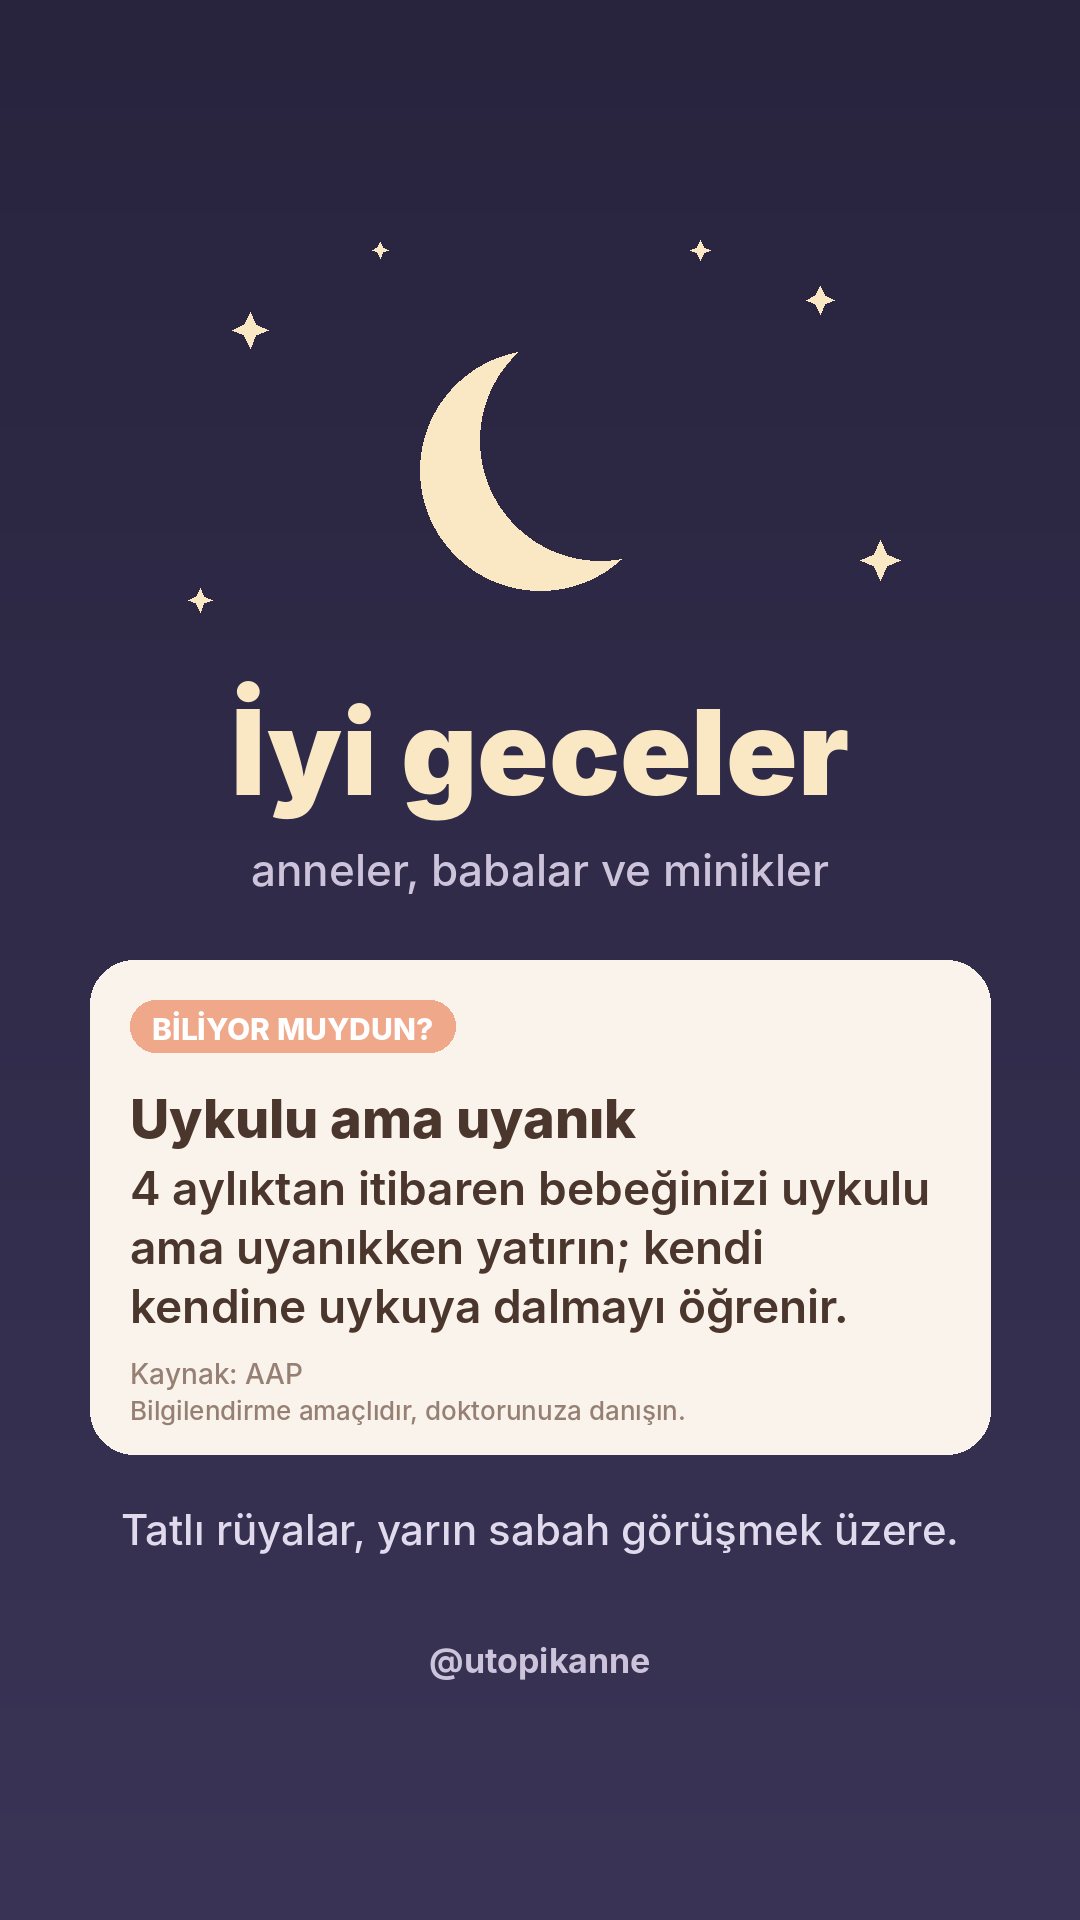
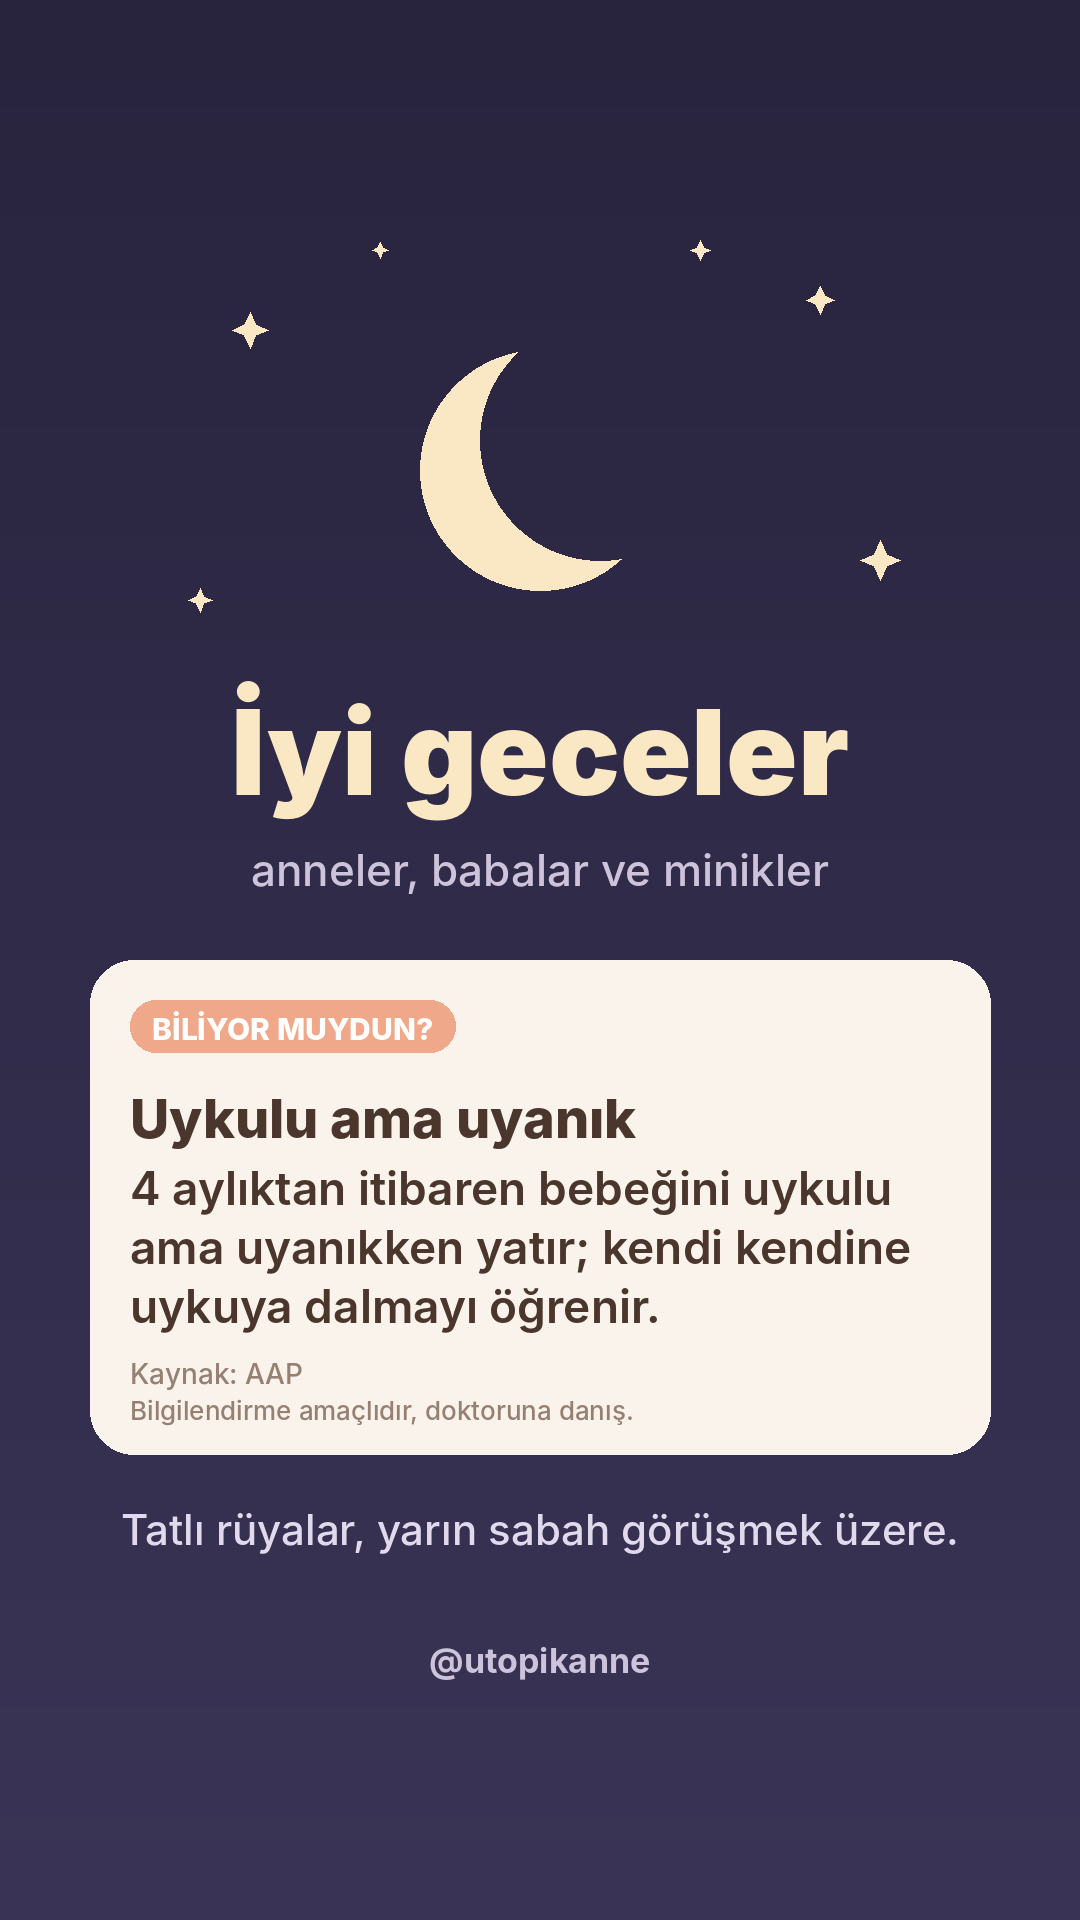
[utopikanne] hitap: biz/siz yerine sen dili; 4 Kasım 14:30 sonrası hikâyeler yeniden üretildi
Claude-Session: https://claude.ai/code/session_01QGX4XsF2fmNtuvzmoWMg9N

Changed region(s): [[0.1222, 0.5938, 0.8556, 0.7188], [0.5194, 0.7188, 0.6111, 0.75]]

diff --git a/araclar/anne_story.py b/araclar/anne_story.py
@@ -74,7 +74,7 @@ def iyi_geceler(path, baslik, bilgi, kaynak, alt="Tatlı rüyalar, yarın sabah 
     yy = yaz(d, (130, yy + 8), bilgi, font("SemiBold", 46), KAHVE, max_w=820, sp=1.3)
     d.text((130, kart_y + h - 60 - (38 if saglik else 0)), "Kaynak: " + kaynak, font=font("Medium", 28), fill=SOLUK)
     if saglik:
-        d.text((130, kart_y + h - 60), "Bilgilendirme amaçlıdır, doktorunuza danışın.", font=font("Medium", 26), fill=SOLUK)
+        d.text((130, kart_y + h - 60), "Bilgilendirme amaçlıdır, doktoruna danış.", font=font("Medium", 26), fill=SOLUK)
     y = kart_y + h + 50
     y = yaz(d, (0, y), alt, font("Medium", 42), (225, 218, 236), center=True)
     assert y <= 1580, ("story taşıyor", y)
@@ -93,7 +93,7 @@ ADACAYI_ACIK = (220, 232, 215)
 TURUNCU = (232, 132, 72)
 YESIL = (110, 150, 100)
 SARI = (246, 196, 92)
-SAGLIK_NOT = "Bilgilendirme amaçlıdır, doktorunuza danışın."
+SAGLIK_NOT = "Bilgilendirme amaçlıdır, doktoruna danış."
 
 
 def zemin(ust=KREM, alt=(246, 232, 220)):
@@ -220,7 +220,7 @@ def gunaydin(path, bilgi, kaynak, baslik="Günaydın"):
     img, d = zemin(KREM, (250, 228, 205))
     gunes(d, 540, 470)
     y = yaz(d, (0, 690), baslik, font("Black", 124), KAHVE, center=True)
-    y = yaz(d, (0, y + 6), "güzel bir gün dileriz", font("Medium", 44), SOLUK, center=True)
+    y = yaz(d, (0, y + 6), "güzel bir gün olsun", font("Medium", 44), SOLUK, center=True)
     y += 60
     bl = wrap(d, bilgi, font("SemiBold", 48), 800)
     h = 150 + len(bl) * 64 + 30

diff --git a/araclar/anne_renkli.py b/araclar/anne_renkli.py
@@ -14,7 +14,7 @@ MURDUM = (74, 30, 64)
 SOLUK = (112, 74, 100)       # alt notlar; açık zeminde ~6:1 kontrast
 BEYAZ = (255, 255, 255)
 KREM = (255, 250, 246)
-SAGLIK_NOT = "Bilgilendirme amaçlıdır, doktorunuza danışın."
+SAGLIK_NOT = "Bilgilendirme amaçlıdır, doktoruna danış."
 
 # temel pastel tonlar
 PUDRA = (248, 196, 212)
@@ -450,7 +450,7 @@ def gunaydin(path, bilgi, kaynak, baslik="Günaydın"):
         img, d = zemin("gunaydin")
         gunes(d, 540, 470)
         y = yaz(d, 0, 680, baslik, F("Black", 132, 1), MURDUM, 960, center=True)
-        y = yaz(d, 0, y + 4, "güzel bir gün dileriz", F("SemiBold", 44, 1), K_MERCAN, 960, center=True) + 50
+        y = yaz(d, 0, y + 4, "güzel bir gün olsun", F("SemiBold", 44, 1), K_MERCAN, 960, center=True) + 50
         y = bilgi_karti(d, y, "GÜNÜN BİLGİSİ", bilgi, k, "gunaydin", s=50)
         alt_bilgi(d, kaynak)
         return img, y
@@ -602,7 +602,7 @@ def haber(path, baslik, ozet, tarih, kaynak):
         kart(d, y, y + th + 40, fill=LIMON, r=30)
         yaz(d, 130, y + 20, t, fk, MURDUM, 820, 1.3)
         y += th + 40
-        alt_bilgi(d, None, "Ayrıntılar için resmi duyuruyu inceleyin.")
+        alt_bilgi(d, None, "Ayrıntılar için resmi duyuruya göz at.")
         return img, y
     return sigdir(ciz, path)
 
